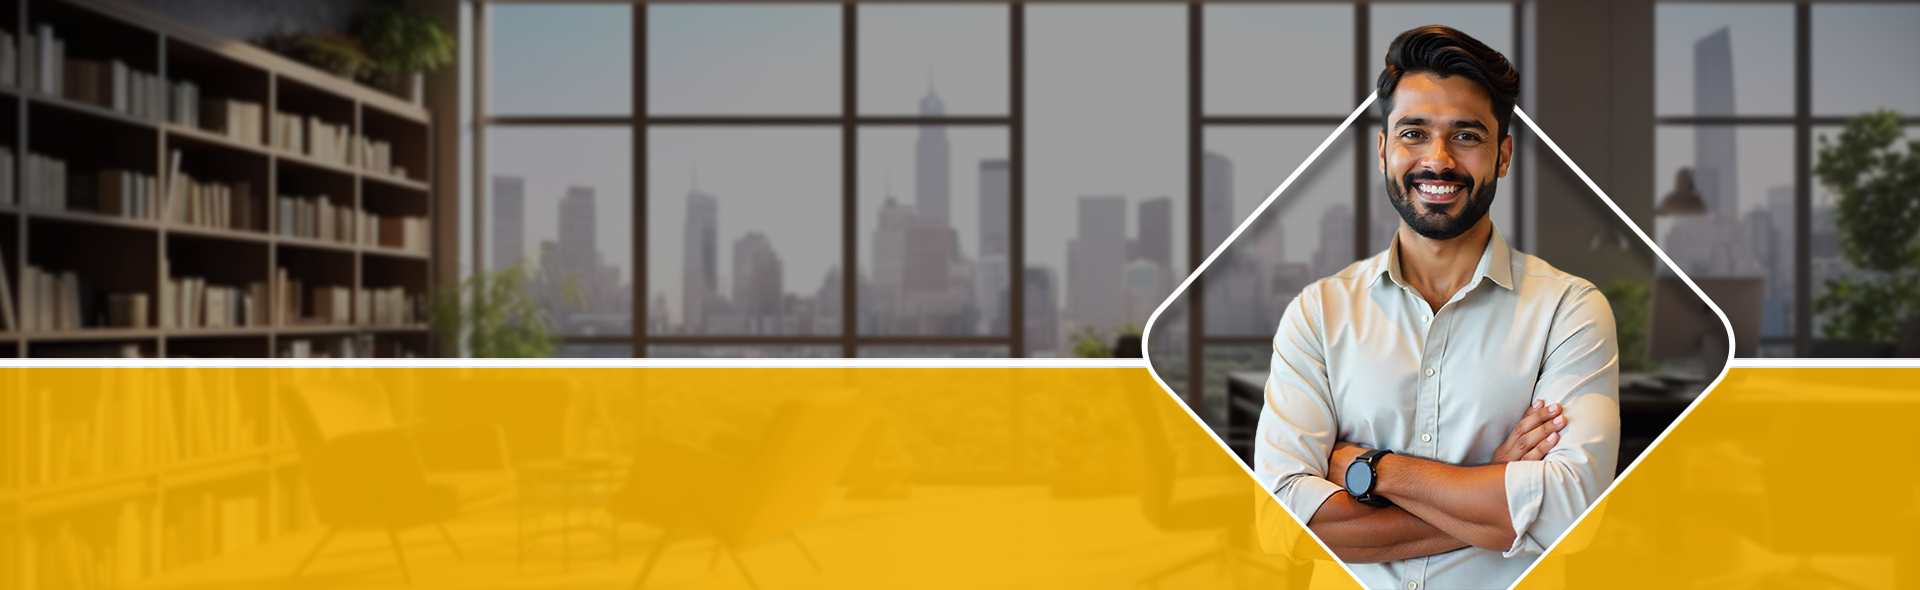
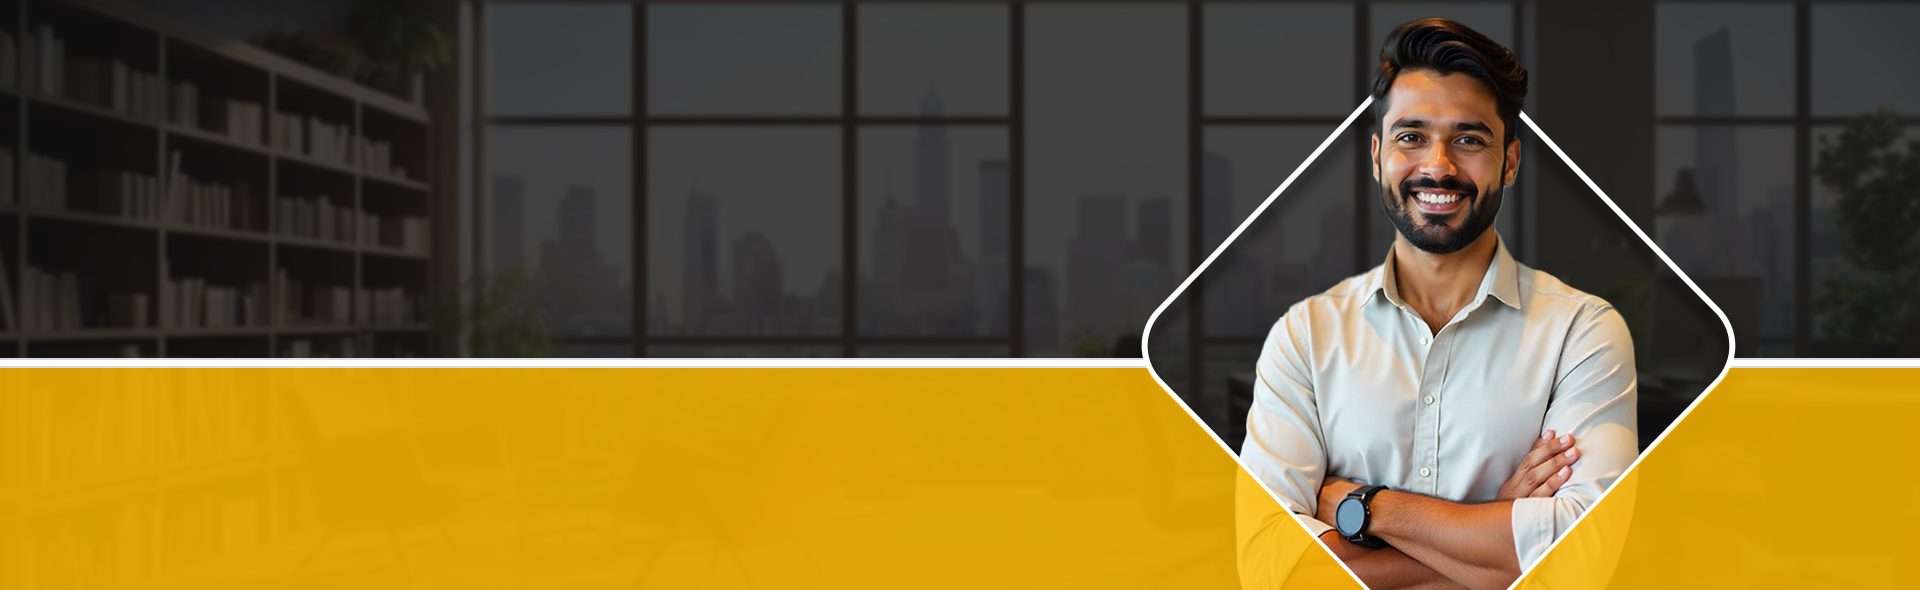
Update assets and improve component styles for better UI consistency

diff --git a/src/components/Mobile.tsx b/src/components/Mobile.tsx
@@ -6,14 +6,14 @@ import { Sparkles } from "lucide-react";
 
 export default function Mobile() {
   return (
-    <div className="min-h-screen bg-[#fff0c3] overflow-hidden">
-      <div className="container mx-auto px-6 py-12">
-        <div className="grid lg:grid-cols-2 gap-12 items-center max-w-7xl mx-auto">
+    <div className="min-h-auto bg-[#fff0c3] overflow-hidden">
+      <div className="container mx-auto px-6 py-10">
+        <div className="grid lg:grid-cols-2 gap-12 items-center max-w-screen mx-auto">
           {/* Left Content */}
           <div className="space-y-8">
             <div className="space-y-6">
-              <div className="flex items-start gap-4">
-                <h1 className="text-4xl lg:text-5xl font-bold text-black leading-tight">
+              <div className="flex items-start gap-2">
+                <h1 className="text-4xl lg:text-5xl text-black leading-tight font-space-grotesk">
                   FundsRaize Simplifies Finance With Smart Solutions And
                   Growth-Driven Partnerships.
                 </h1>

diff --git a/src/components/Footer.tsx b/src/components/Footer.tsx
@@ -1,5 +1,7 @@
 import { Button } from "./ui/button";
 import { Star, Instagram, Twitter, Facebook, Youtube } from "lucide-react";
+import Image from "next/image";
+import logo from "../../public/assets/logo.png"; // Adjust the path as necessary
 
 export default function Footer() {
   return (
@@ -11,11 +13,7 @@ export default function Footer() {
             {/* Left Section - Company Info */}
             <div className="lg:col-span-3">
               <div className="flex items-center gap-3 mb-6">
-                <div className="w-10 h-10 bg-[#f7c430] rounded-full flex items-center justify-center">
-                  <div className="w-6 h-6 bg-black rounded-full flex items-center justify-center">
-                    <div className="w-3 h-3 bg-[#f7c430] rounded-full"></div>
-                  </div>
-                </div>
+                <Image src={logo} alt="Logo" width={40} height={40} />
                 <span className="text-black text-xl font-semibold">
                   Fund Raizer
                 </span>

diff --git a/src/components/Hero-section.tsx b/src/components/Hero-section.tsx
@@ -148,8 +148,7 @@ export default function Hero() {
               style={{ objectFit: "cover" }}
               priority={index === 0}
               className="absolute inset-0"
-            />
-            <div className="absolute inset-0 bg-black/50" />
+            />  
           </div>
         ))}
       </div>
@@ -202,7 +201,7 @@ export default function Hero() {
                       setTransitioning(false);
                     }, 700);
                   }}
-                  className={`w-2 md:w-3 h-16 my-2 rounded-full cursor-pointer transition-all duration-300
+                  className={`w-1 md:w-2 h-16 my-2 rounded-full cursor-pointer transition-all duration-300
                     ${
                       index === currentSlideIndex
                         ? "bg-[#f7c430] scale-x-150"

diff --git a/src/components/Plan.tsx b/src/components/Plan.tsx
@@ -84,7 +84,7 @@ export default function Price() {
               </h3>
               <div className="text-3xl font-bold text-black mb-8">₹ 5499/-</div>
 
-              <Button className="w-full bg-black text-white rounded-xl font-semibold py-3 mb-8 hover:bg-[#141212]">
+              <Button className="w-full bg-white text-black rounded-xl font-semibold py-3 mb-8 hover:bg-gray-100 border-2 border-black">
                 Get Started
               </Button>
 

diff --git a/src/app/globals.css b/src/app/globals.css
@@ -25,7 +25,7 @@
 
 @media (prefers-color-scheme: dark) {
   :root {
-    --background: #0a0a0a;
+    --background: #ffffff;
     --foreground: #ededed;
   }
 }
